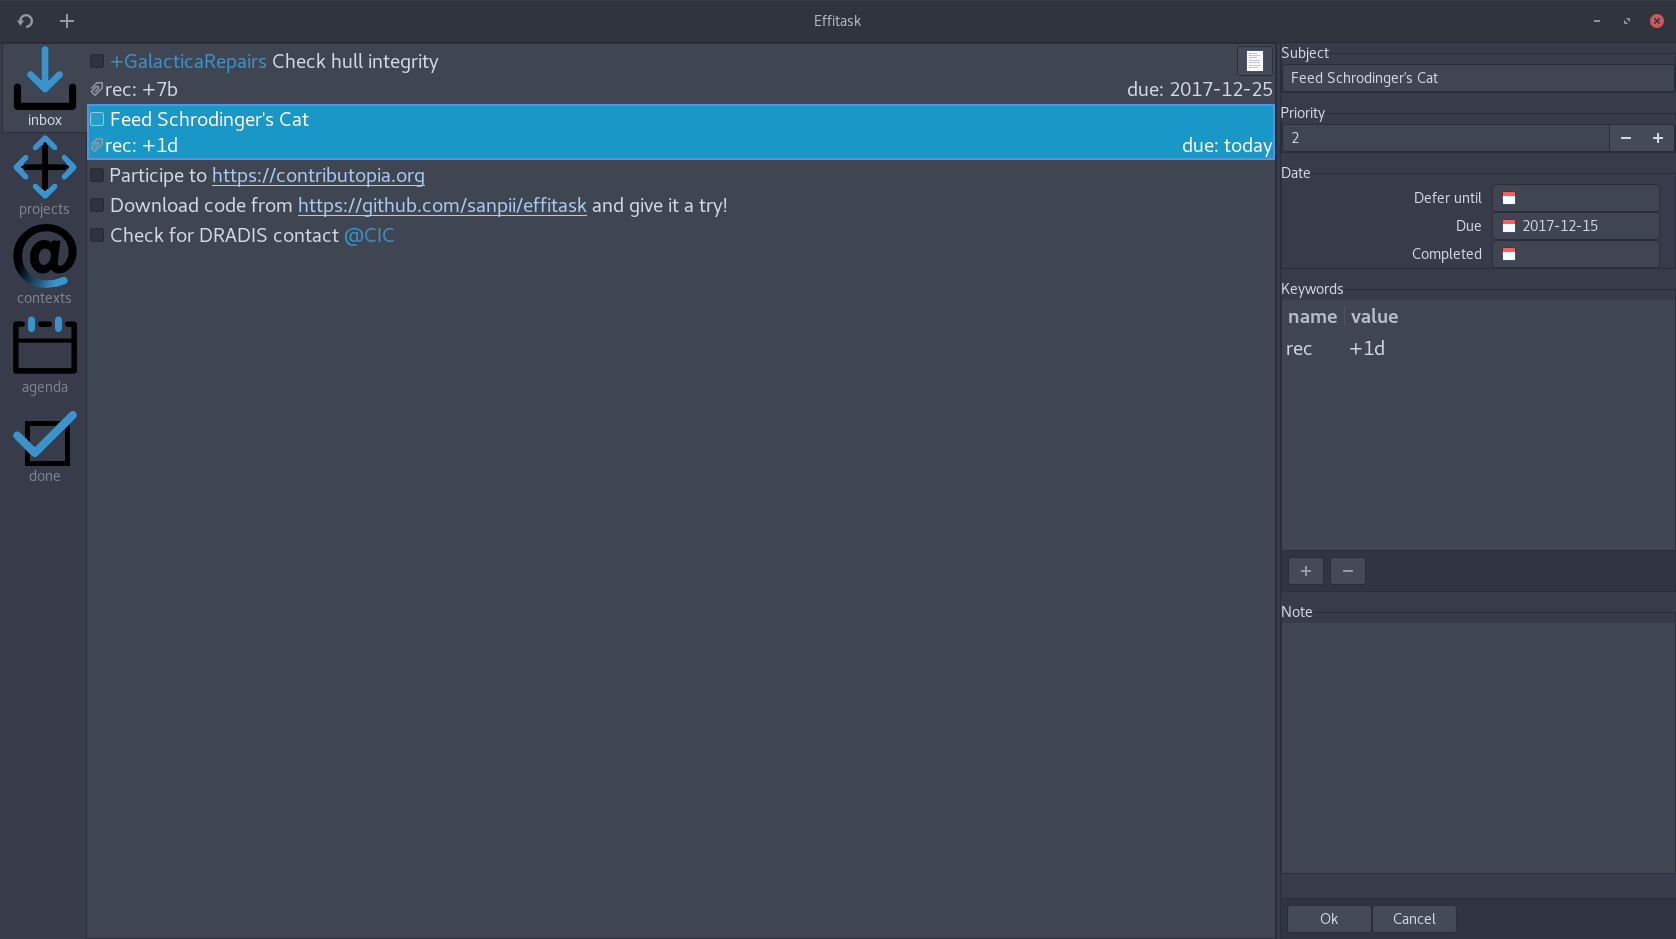
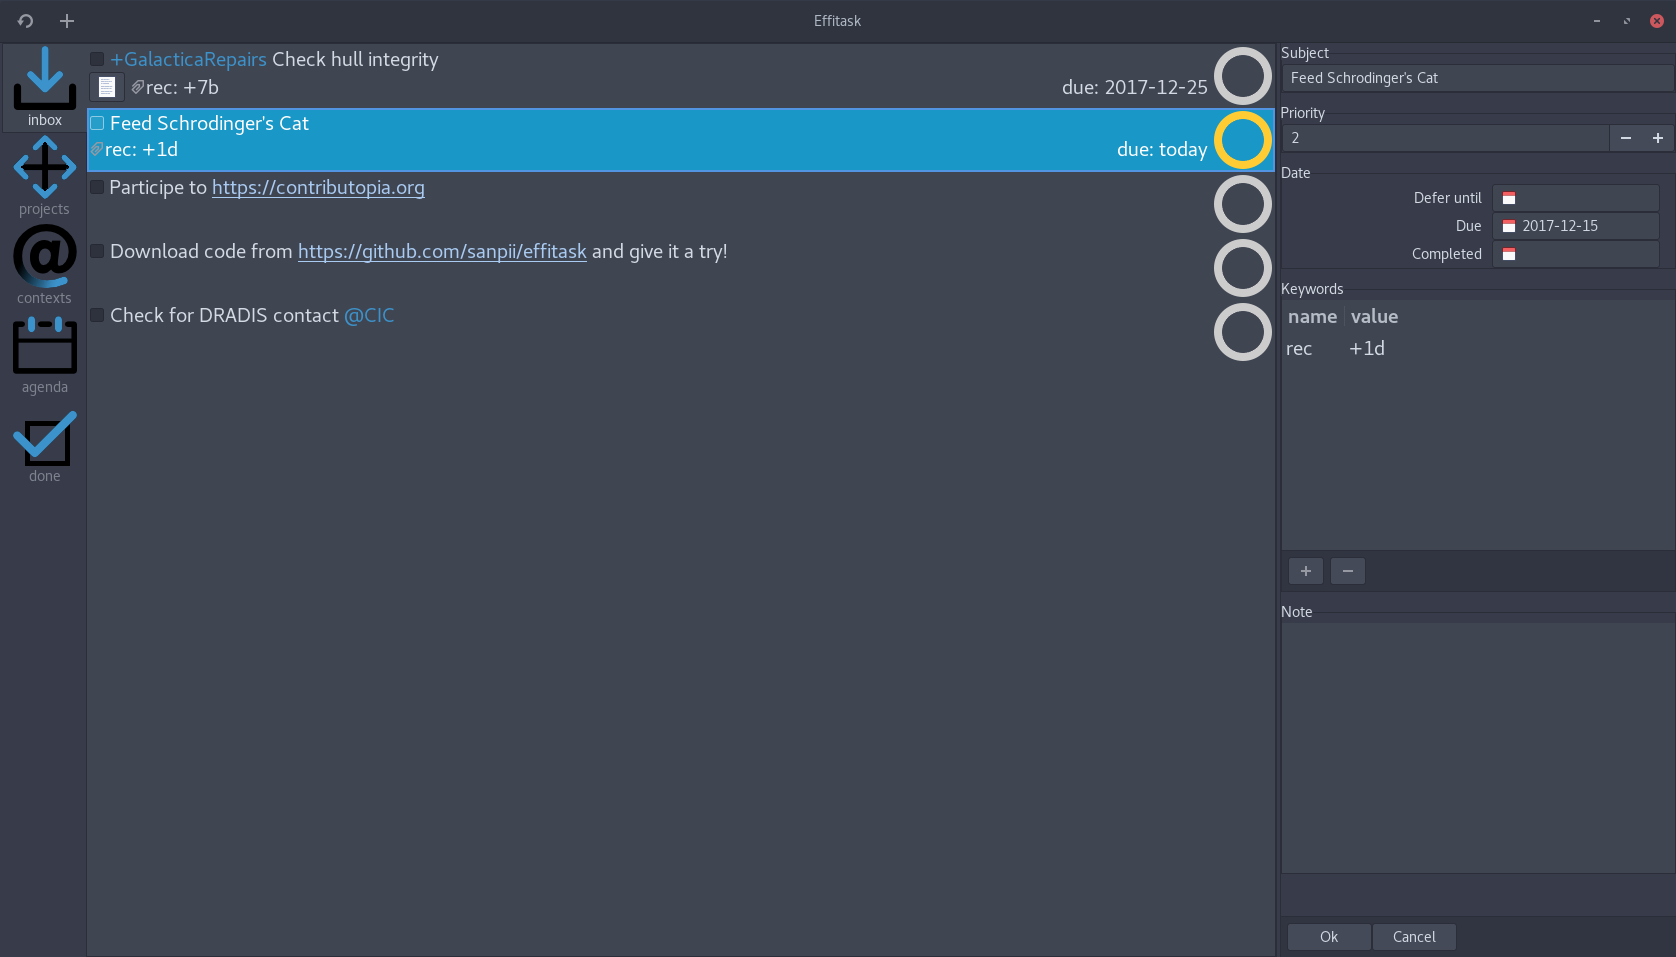
Add circle

diff --git a/src/widgets/task.rs b/src/widgets/task.rs
@@ -127,48 +127,63 @@ impl ::relm::Widget for Task
         gtk::EventBox {
             button_press_event(_, event) => (Msg::Click(event.clone()), ::gtk::Inhibit(false)),
             gtk::Box {
-                orientation: ::gtk::Orientation::Vertical,
+                orientation: ::gtk::Orientation::Horizontal,
+                spacing: 5,
                 gtk::Box {
-                    spacing: 5,
-                    orientation: ::gtk::Orientation::Horizontal,
-                    gtk::CheckButton {
-                        active: self.model.task.finished,
-                        toggled => Msg::Toggle,
+                    orientation: ::gtk::Orientation::Vertical,
+                    packing: {
+                        expand: true,
+                        fill: true,
                     },
-                    gtk::Label {
-                        packing: {
-                            expand: true,
-                            fill: true,
+                    gtk::Box {
+                        spacing: 5,
+                        orientation: ::gtk::Orientation::Horizontal,
+                        gtk::CheckButton {
+                            active: self.model.task.finished,
+                            toggled => Msg::Toggle,
                         },
-                        markup: self.model.task.markup_subject().as_str(),
-                        xalign: 0.,
+                        gtk::Label {
+                            packing: {
+                                expand: true,
+                                fill: true,
+                            },
+                            markup: self.model.task.markup_subject().as_str(),
+                            xalign: 0.,
+                        },
                     },
-                    #[name="note_button"]
-                    gtk::Button {
-                        image: &::gtk::Image::new_from_icon_name("text-x-generic", ::gtk::IconSize::LargeToolbar.into()),
-                        clicked => Msg::ShowNote,
+                    gtk::Box {
+                        spacing: 5,
+                        orientation: ::gtk::Orientation::Horizontal,
+                        #[name="note_button"]
+                        gtk::Button {
+                            image: &::gtk::Image::new_from_icon_name("text-x-generic", ::gtk::IconSize::LargeToolbar.into()),
+                            clicked => Msg::ShowNote,
+                        },
+                        #[name="keywords"]
+                        gtk::Box {
+                            gtk::Image {
+                                property_icon_name: Some("mail-attachment"),
+                            },
+                            #[name="keywords_label"]
+                            gtk::Label {
+                            },
+                        },
+                        #[name="date"]
+                        gtk::Box {
+                            packing: {
+                                pack_type: ::gtk::PackType::End,
+                            },
+                            #[name="date_label"]
+                            gtk::Label {
+                            },
+                        },
                     },
                 },
-                gtk::Box {
-                    spacing: 5,
-                    orientation: ::gtk::Orientation::Horizontal,
-                    #[name="keywords"]
-                    gtk::Box {
-                        gtk::Image {
-                            property_icon_name: Some("mail-attachment"),
-                        },
-                        #[name="keywords_label"]
-                        gtk::Label {
-                        },
-                    },
-                    #[name="date"]
-                    gtk::Box {
-                        packing: {
-                            pack_type: ::gtk::PackType::End,
-                        },
-                        #[name="date_label"]
-                        gtk::Label {
-                        },
+                #[name="circle"]
+                ::widgets::Circle(self.model.task.clone()) {
+                    packing: {
+                        expand: false,
+                        fill: true,
                     },
                 },
             },

diff --git a/src/widgets/circle.rs b/src/widgets/circle.rs
@@ -1,0 +1,96 @@
+use gtk;
+use gtk::prelude::*;
+use relm_attributes::widget;
+
+#[derive(Msg)]
+pub enum Msg {
+    Draw,
+}
+
+impl Circle
+{
+    fn draw(&self)
+    {
+        let context = self.create_context();
+        let task = &self.model;
+        let center = self.center();
+
+        if let Some(due_date) = task.due_date {
+            let today = ::chrono::Local::now()
+                .date()
+                .naive_local();
+
+            if due_date < today {
+                context.set_source_rgb(1., 0.4, 0.5);
+            }
+            else {
+                context.set_source_rgb(1., 0.8, 0.2);
+            }
+        }
+        else {
+            context.set_source_rgb(0.8, 0.8, 0.8);
+        }
+
+        context.set_line_width(8.);
+        context.arc(center, center, center - 5., 0., 2. * ::std::f64::consts::PI);
+        context.close_path();
+
+        if task.finished {
+            context.fill_preserve();
+        }
+
+        context.stroke();
+
+    }
+
+    fn center(&self) -> f64
+    {
+        f64::min(
+            f64::from(self.drawing_area.get_property_width_request()) / 2.,
+            f64::from(self.drawing_area.get_property_height_request()) / 2.,
+        )
+    }
+
+    fn create_context(&self) -> ::cairo::Context
+    {
+        let window = self.drawing_area.get_window()
+            .unwrap();
+
+        unsafe {
+            use glib::translate::ToGlibPtr;
+            use glib::translate::FromGlibPtrNone;
+
+            let ptr = ::gdk_sys::gdk_cairo_create(window.to_glib_none().0);
+
+            ::cairo::Context::from_glib_none(ptr)
+        }
+    }
+}
+
+#[widget]
+impl ::relm::Widget for Circle
+{
+    fn model(task: ::tasks::Task) -> ::tasks::Task
+    {
+        task
+    }
+
+    fn update(&mut self, event: Msg)
+    {
+        use self::Msg::*;
+
+        match event {
+            Draw => self.draw(),
+        }
+    }
+
+    view!
+    {
+        #[name="drawing_area"]
+        gtk::DrawingArea {
+            property_height_request: 60,
+            property_width_request: 60,
+            draw(_, _) => (Msg::Draw, ::gtk::Inhibit(false)),
+        }
+    }
+}

diff --git a/src/widgets/mod.rs b/src/widgets/mod.rs
@@ -1,4 +1,5 @@
 pub mod calendar;
+pub mod circle;
 pub mod filter;
 pub mod keywords;
 pub mod task;
@@ -6,6 +7,7 @@ pub mod tasks;
 pub mod tags;
 
 pub use self::calendar::Calendar;
+pub use self::circle::Circle;
 pub use self::filter::Filter;
 pub use self::keywords::Keywords;
 pub use self::task::Task;

diff --git a/src/main.rs b/src/main.rs
@@ -4,10 +4,12 @@
 #![cfg_attr(feature="clippy", feature(plugin))]
 #![cfg_attr(feature="clippy", plugin(clippy))]
 
+extern crate cairo;
 extern crate chrono;
 #[macro_use]
 extern crate log;
 extern crate gdk;
+extern crate gdk_sys;
 extern crate glib;
 extern crate gtk;
 extern crate rand;
